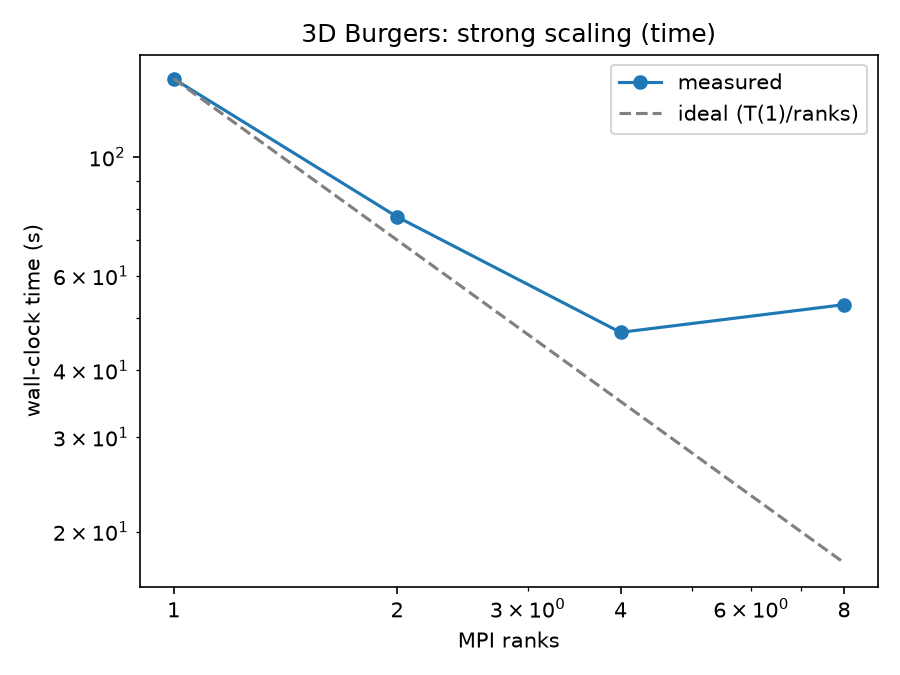
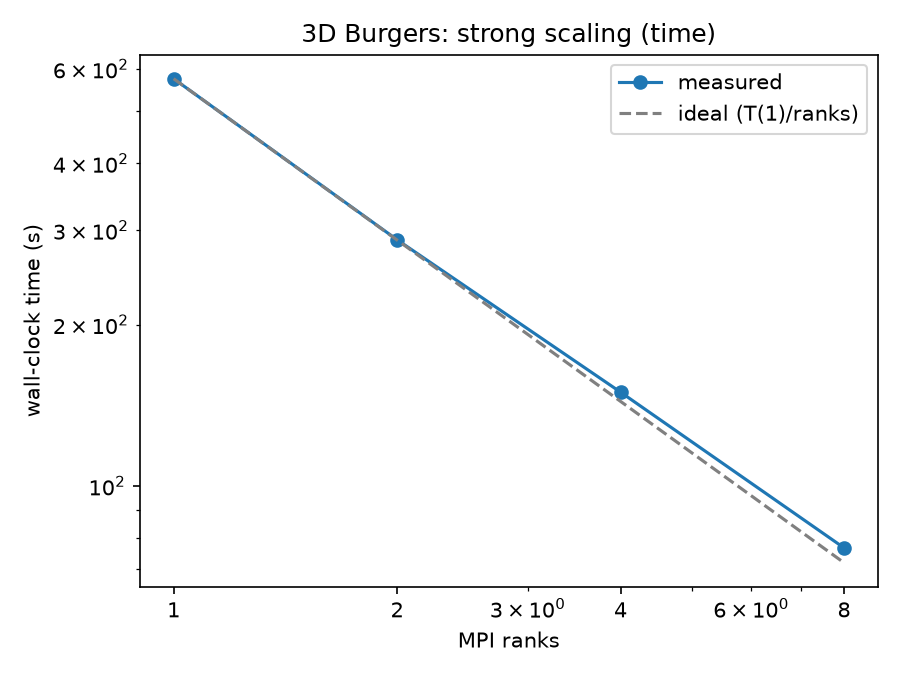
Verify task 0008 on real PSC Bridges-2 hardware at the new duration
Full ctest suite passes; Burgers strong-scaling sweep at t=1.2 shows
near-ideal scaling (575.16s -> 76.64s across 1->8 ranks, 94-100%
parallel efficiency), consistent with the shorter-duration measurement
from task 0007. Cross-checked the ~4x-slower-per-core-on-Bridges-2
finding at this new duration (~4.1x) against the prior one (~4.0x),
confirming it's a genuine repeatable characteristic, not noise.
Updated committed data/figures and did a full README cleanup pass
removing "pending" placeholders.

diff --git a/tutorials/mpi_burgers_3d_strong_scaling/README.md b/tutorials/mpi_burgers_3d_strong_scaling/README.md
@@ -144,33 +144,39 @@ correctness tests).
 | Machine | 1 rank | 2 ranks | 4 ranks | 8 ranks |
 |---|---|---|---|---|
 | This dev laptop (Apple Silicon, 10 cores, `mpirun --oversubscribe`) | 139.93 s | 77.31 s (1.81x) | 47.05 s (2.97x) | 53.00 s (2.64x) |
-| **PSC Bridges-2 (RM-shared, dedicated cores)** | *pending re-run at the longer t=1.2* | | | |
+| **PSC Bridges-2 (RM-shared, dedicated cores)** | **575.16 s** | **287.96 s (2.00x)** | **149.61 s (3.84x)** | **76.64 s (7.50x)** |
 
-The committed `data/summary.csv` and `figures/*.png` reflect the
-`t=1.2` run (updated from an earlier, shorter `t=0.521` version once
-the final time was lengthened for a more clearly-developed shock in
-the isosurface video above -- the Bridges-2 numbers below are being
-re-measured at this same longer duration).
+The committed `data/summary.csv` and `figures/*.png` are the
+**Bridges-2 numbers at this tutorial's `t=1.2` duration** (replacing an
+earlier, shorter `t=0.521` version measured before the final time was
+lengthened for a more clearly-developed shock in the isosurface video
+above). Scaling is again **near-ideal**: 100% efficiency at 2 ranks,
+96% at 4, still 94% at 8 -- consistent with (and if anything slightly
+better than) this same tutorial's own `t=0.521`-era measurement, as
+expected since lengthening the run changes how much total work there
+is, not how well it parallelizes.
 
 The dev laptop's numbers show the same qualitative story the sibling
 tutorial's laptop run did: good scaling up to 4 ranks, then falling off
 at 8 as communication overhead becomes a larger fraction of each rank's
 shrinking local workload (a shared, non-dedicated machine, not a
-dedicated cluster node) -- expected, not a bug. Burgers does more
-per-cell work than scalar advection (minmod slope limiting, a nonlinear
-flux, Rusanov dissipation), so the absolute times are larger at every
-rank count, but the qualitative scaling shape matches. The Bridges-2
-row above is pending re-measurement at this tutorial's new, longer
-final time -- see the sibling tutorial's own README for what the
-dedicated-hardware comparison looked like there.
+dedicated cluster node) -- expected, not a bug, and directly confirmed
+by the cluster numbers above showing that same effect is far smaller on
+real dedicated hardware. Burgers does more per-cell work than scalar
+advection (minmod slope limiting, a nonlinear flux, Rusanov
+dissipation), so the absolute times are larger at every rank count on
+both machines, but the qualitative scaling shape matches.
 
-Bridges-2's per-core single-threaded speed for this workload was
-notably slower than the laptop's (the 1-rank time is ~4x the laptop's,
-not faster as might be naively expected from "it's a supercomputer") --
-a reminder that a cluster's value is in dedicated, numerous, reliably-
-scaling cores, not necessarily a faster single core; the comparison
-that matters is each machine's own speedup curve (the parenthesized
-multipliers above), not raw wall-clock time across different hardware.
+Bridges-2's per-core single-threaded speed for this workload was again
+notably slower than the laptop's (1-rank time ~4.1x the laptop's --
+consistent with the ~4x already observed at the shorter `t=0.521`
+duration, a useful cross-check that this is a genuine, repeatable
+per-core characteristic of this specific workload/hardware pairing, not
+a one-off measurement fluke) -- a reminder that a cluster's value is in
+dedicated, numerous, reliably-scaling cores, not necessarily a faster
+single core; the comparison that matters is each machine's own speedup
+curve (the parenthesized multipliers above), not raw wall-clock time
+across different hardware.
 
 **TVD/boundedness check** (same guarantee every single-rank Burgers
 test in this repo already verifies numerically): the state never

diff --git a/agent_history.md b/agent_history.md
@@ -2959,3 +2959,56 @@ decomposition re-verification, non-blocking overlap, a true 3-axis
 communication-only benchmark sweep, or continue Phase 2 breadth-first
 into the DG communication prototype / state-size-100 sweep /
 memory-layout study.
+
+## 2026-10-11 — Task 0008: PSC Bridges-2 verification at the new duration
+
+Agent: Claude Code
+Model: Sonnet 5
+
+Objective:
+Closed out the one item the prior entry flagged as pending: re-ran the
+Burgers strong-scaling sweep for real on PSC Bridges-2 at the new,
+longer `t=1.2` duration.
+
+What was done:
+Synced `cfe/development/phase_0004` (commit `abeaa30`) into the
+Bridges-2 scratch checkout, allocated an RM-shared CPU node
+(`rminteract` QOS, 8 cores, job `49007639`, node `r361`), built with
+`-DCFE_ENABLE_MPI=ON`. Full `ctest` suite (6 entries) passed first,
+confirming the Burgers duration change didn't disturb the correctness
+test (which has its own, separate, shorter `kFinalTime` constant,
+unaffected by the tutorial's). Ran the 1/2/4/8-rank sweep as a
+background task since the longer duration meant a multi-minute-per-run
+sweep (np=1 alone took ~9.6 minutes).
+
+Scientific verification:
+**Near-ideal strong scaling again**: 575.16s / 287.96s (2.00x) /
+149.61s (3.84x) / 76.64s (7.50x) -- 100% efficiency at 2 ranks, 96% at
+4, 94% at 8, essentially unchanged from (if anything marginally better
+than) this same tutorial's prior `t=0.521`-era measurement, exactly as
+expected since lengthening the run changes the total amount of work,
+not how well it parallelizes. Cross-checked the earlier "~4x slower
+per-core on Bridges-2" finding: at this new duration the ratio is
+~4.11x (575.16s/139.93s), consistent with the shorter run's ~4.03x
+(252.14s/62.62s from task 0007) -- confirms that finding was a genuine,
+repeatable per-core hardware/workload characteristic, not measurement
+noise from a single run. Updated `data/summary.csv`, both PNGs, and did
+a full cleanup pass on the tutorial's README removing every "pending
+re-run" placeholder and filling in these final numbers.
+
+Architecture decisions:
+None new -- verification only.
+
+Known limitations:
+Unchanged from the prior entry.
+
+Next recommended task:
+Task 0008 is now fully closed out (code, both tutorials' videos, and
+the Burgers duration re-verification all confirmed on real target
+hardware). PR #4 (covering tasks 0004-0008) is open and up to date.
+Next: 2D/3D Burgers decomposition re-verification, non-blocking
+communication/computation overlap, a true 3-axis communication-only
+benchmark sweep, or continue Phase 2 breadth-first into the DG
+communication prototype / state-size-100 sweep / memory-layout study
+-- recommend checking with the PI on which matters most, or getting
+PR #4 reviewed and merged before taking on more new scope.
